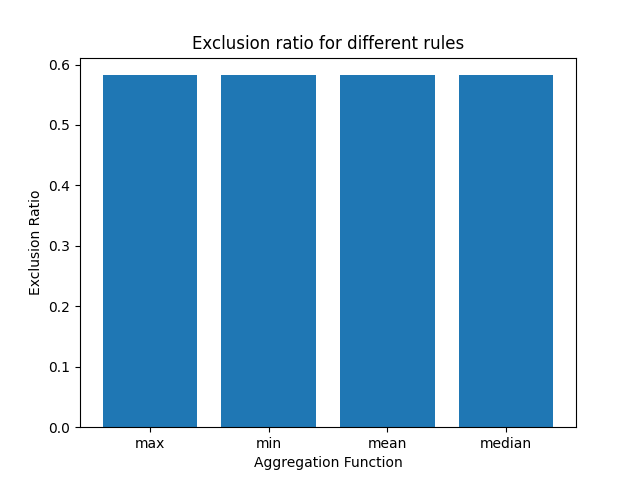
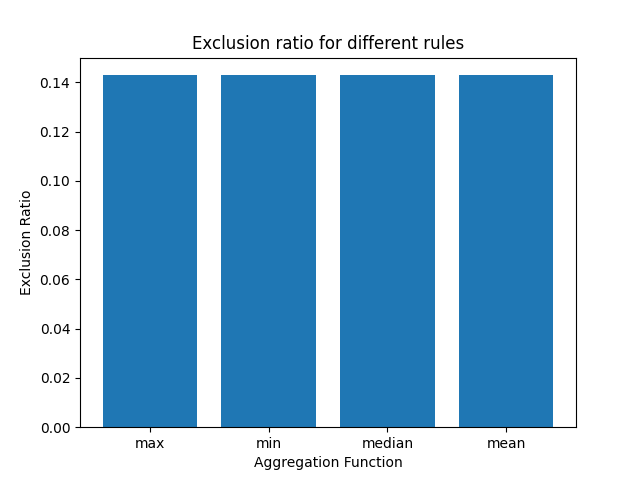
Final push hopefully

diff --git a/environment/experiments.py b/environment/experiments.py
@@ -391,11 +391,11 @@ def run_test_resources(test_name, max_resource:int, data_location:str, output_fo
 
             # Add the outcome of the test to the dictionary
             if running_print:
-                print("Greedy Rule", end='')
+                print("Greedy Rule")
             g[i].append(test_name(instance.copy(), profile.copy(), greedy_rule))
 
             if running_print:
-                print(" Done\nMulti-MES", end='')
+                print(" Done\nMulti-MES")
             mes[i].append(test_name(instance.copy(), profile.copy(), multi_method_equal_shares))
 
             if running_print:
@@ -489,21 +489,21 @@ def run_test_aggregation(test_name, functions:list, data_location:str, output_fo
             outputs = dict([(x.__name__,[]) for x in functions])
             for f in functions:
                 if running_print:
-                    print(f"Multi-MES({f.__name__})", end='')
+                    print(f"Multi-MES({f.__name__})")
 
                 # Run the desired test on multi-mes with the aggregation function f
                 outputs[f.__name__].append(test_name(instance.copy(), profile.copy(), lambda i,p: multi_method_equal_shares(i,p,f,False)))
 
                 if running_print:
                     print(" Done")
-            del instance
-            del profile
-            gc.collect()
 
             mes = dict([(f.__name__,np.mean(outputs[f.__name__])) for f in functions])
 
-
     if test_name == False:
+        output_file = open('outcomes.txt','a')
+        output_file.write(f"Different Aggregation: {mes}\n")
+        output_file.close()
+
         # Create the bar graph
         plt.figure("Differences")
         plt.bar(mes.keys(), [x/num_paths for x in mes.values()])
@@ -513,6 +513,10 @@ def run_test_aggregation(test_name, functions:list, data_location:str, output_fo
         plt.savefig(f"{output_folder}/diff_aggregation.png")
     else:
         meta = test_metadata(test_name, "aggregation")
+
+        output_file = open('outcomes.txt','a')
+        output_file.write(f"{meta[1]}: {mes}\n")
+        output_file.close()
         # Create the bar graph
         plt.figure(meta[2])
         plt.bar(mes.keys(), mes.values())

diff --git a/environment/main.py b/environment/main.py
@@ -37,6 +37,9 @@ def batch_run(seed):
     #run_test_resources(cejr_test, 10, './environment/datasets_extended', './environment/plots_batch', True, False)
     #run_test_resources(all_ejr_test, 10, './environment/datasets_resources', './environment/plots_batch', True, False)
     run_test_resources(one_ejr_test,10, './environment/datasets_resources', './environment/plots_batch', True, False)
+    #run_test_aggregation(exclusion_test, [max, min, np.median, np.mean], './environment/datasets_extended', './environment/plots_batch', True, False)
+    #run_test_aggregation(cejr_test, [max, min, np.median, np.mean], './environment/datasets_extended', './environment/plots_batch', True, False)
+    #run_test_aggregation(False, [max, min, np.median, np.mean], './environment/datasets_extended', './environment/plots_batch', True, True)
     t2 = time()
 
     def to_hours(x):
